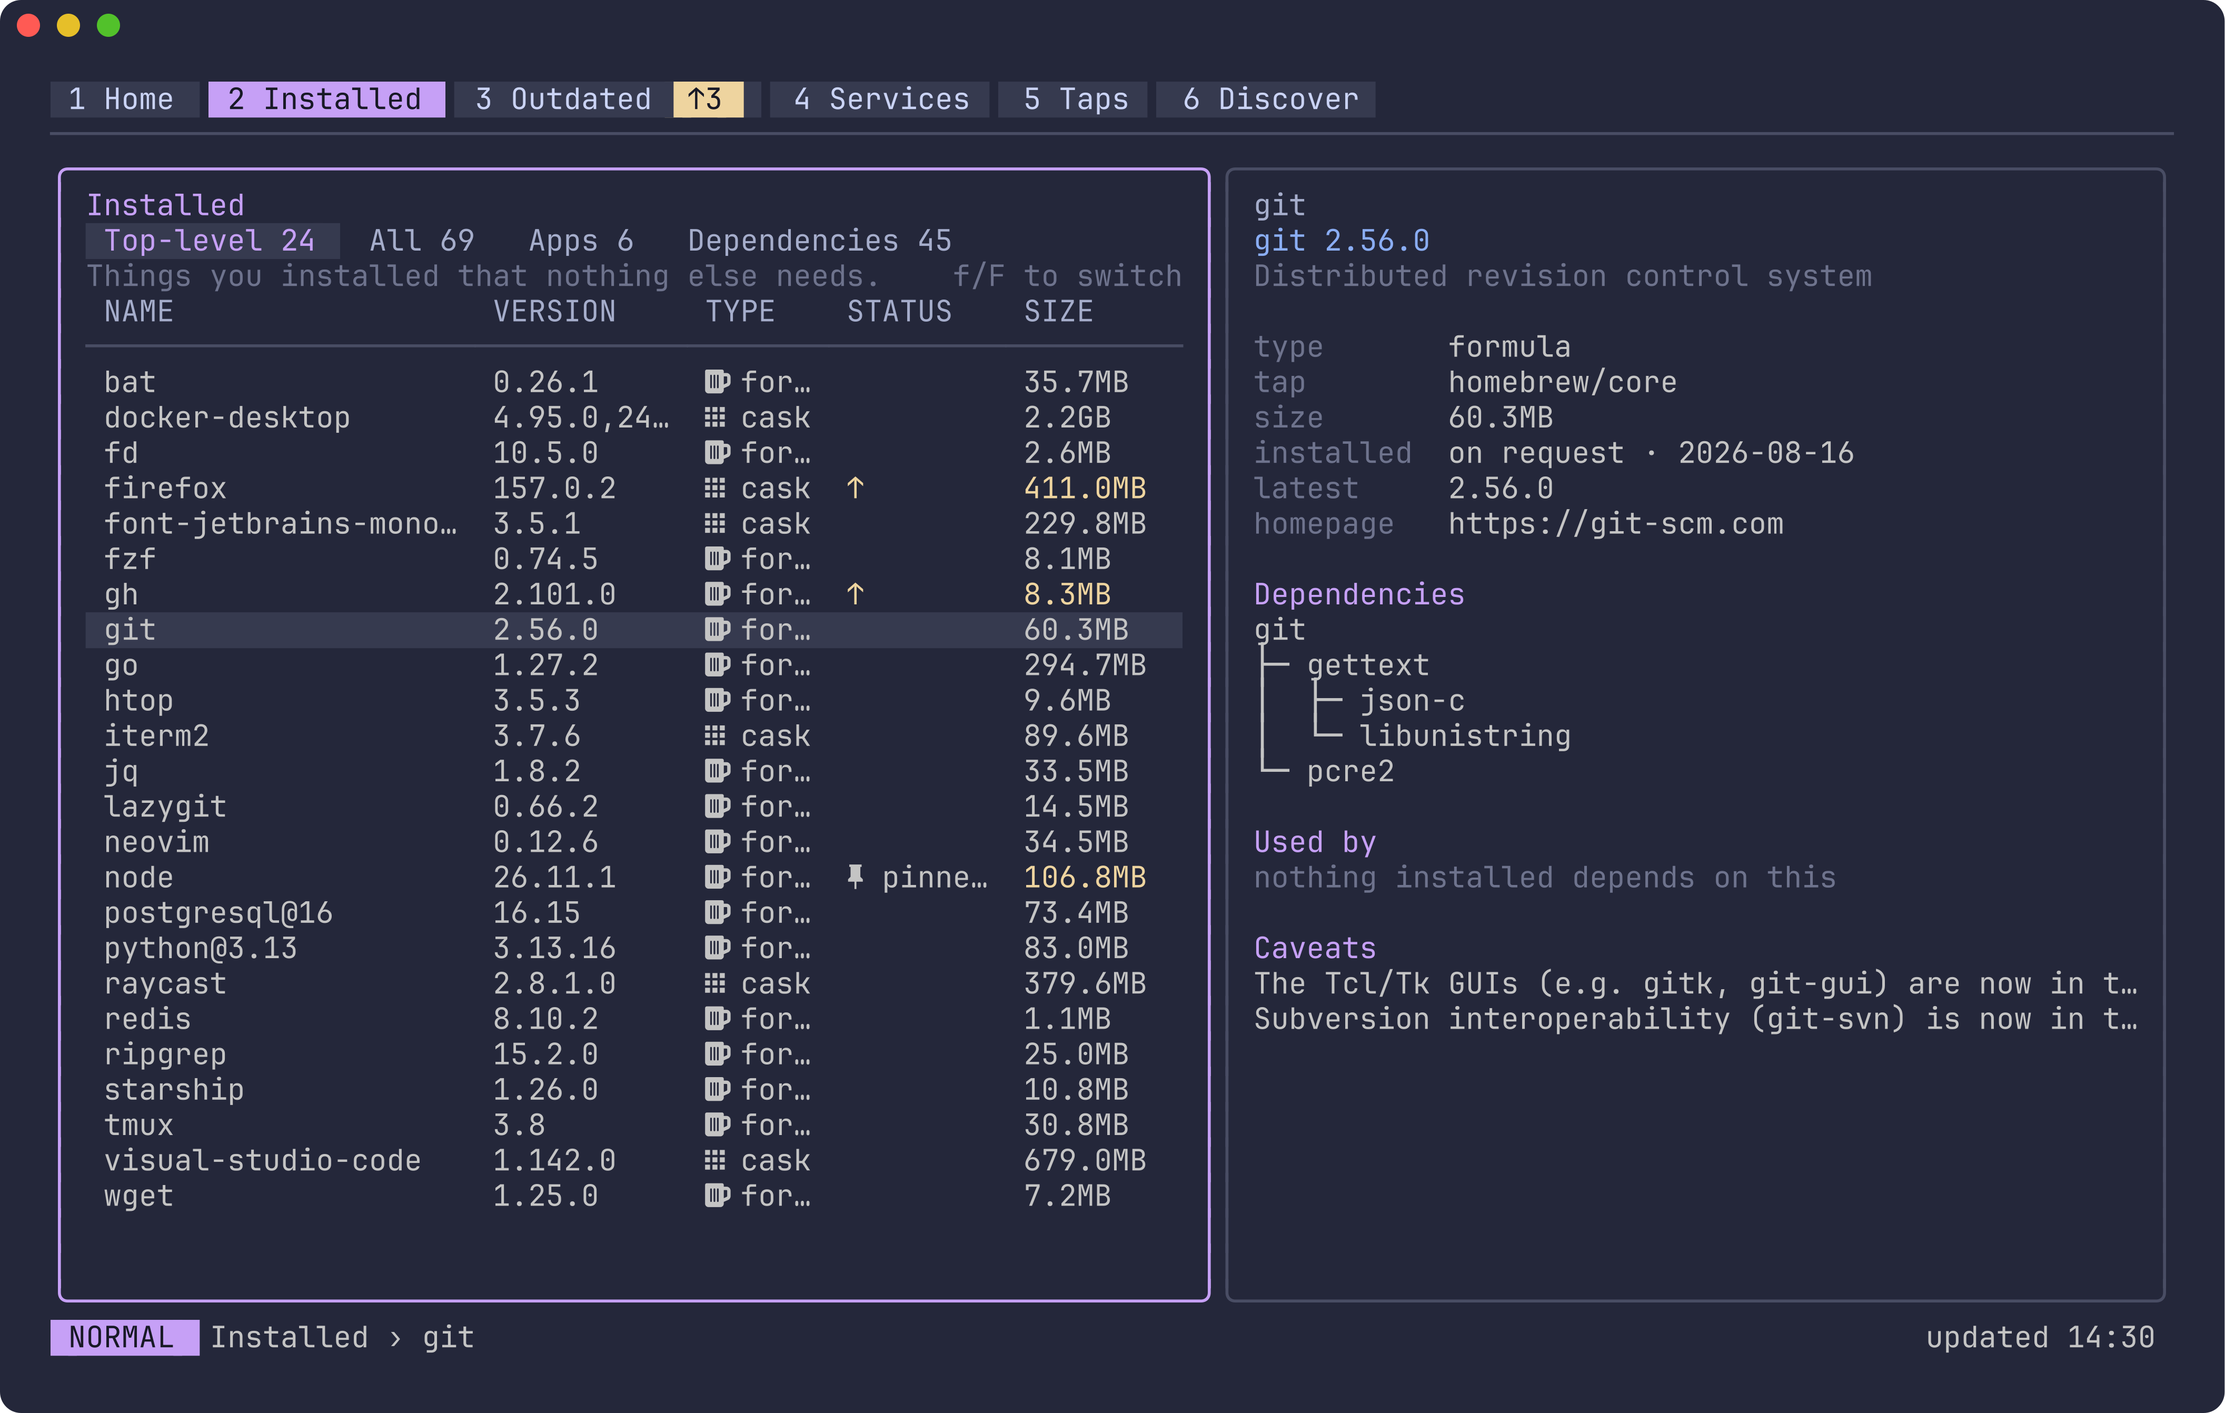
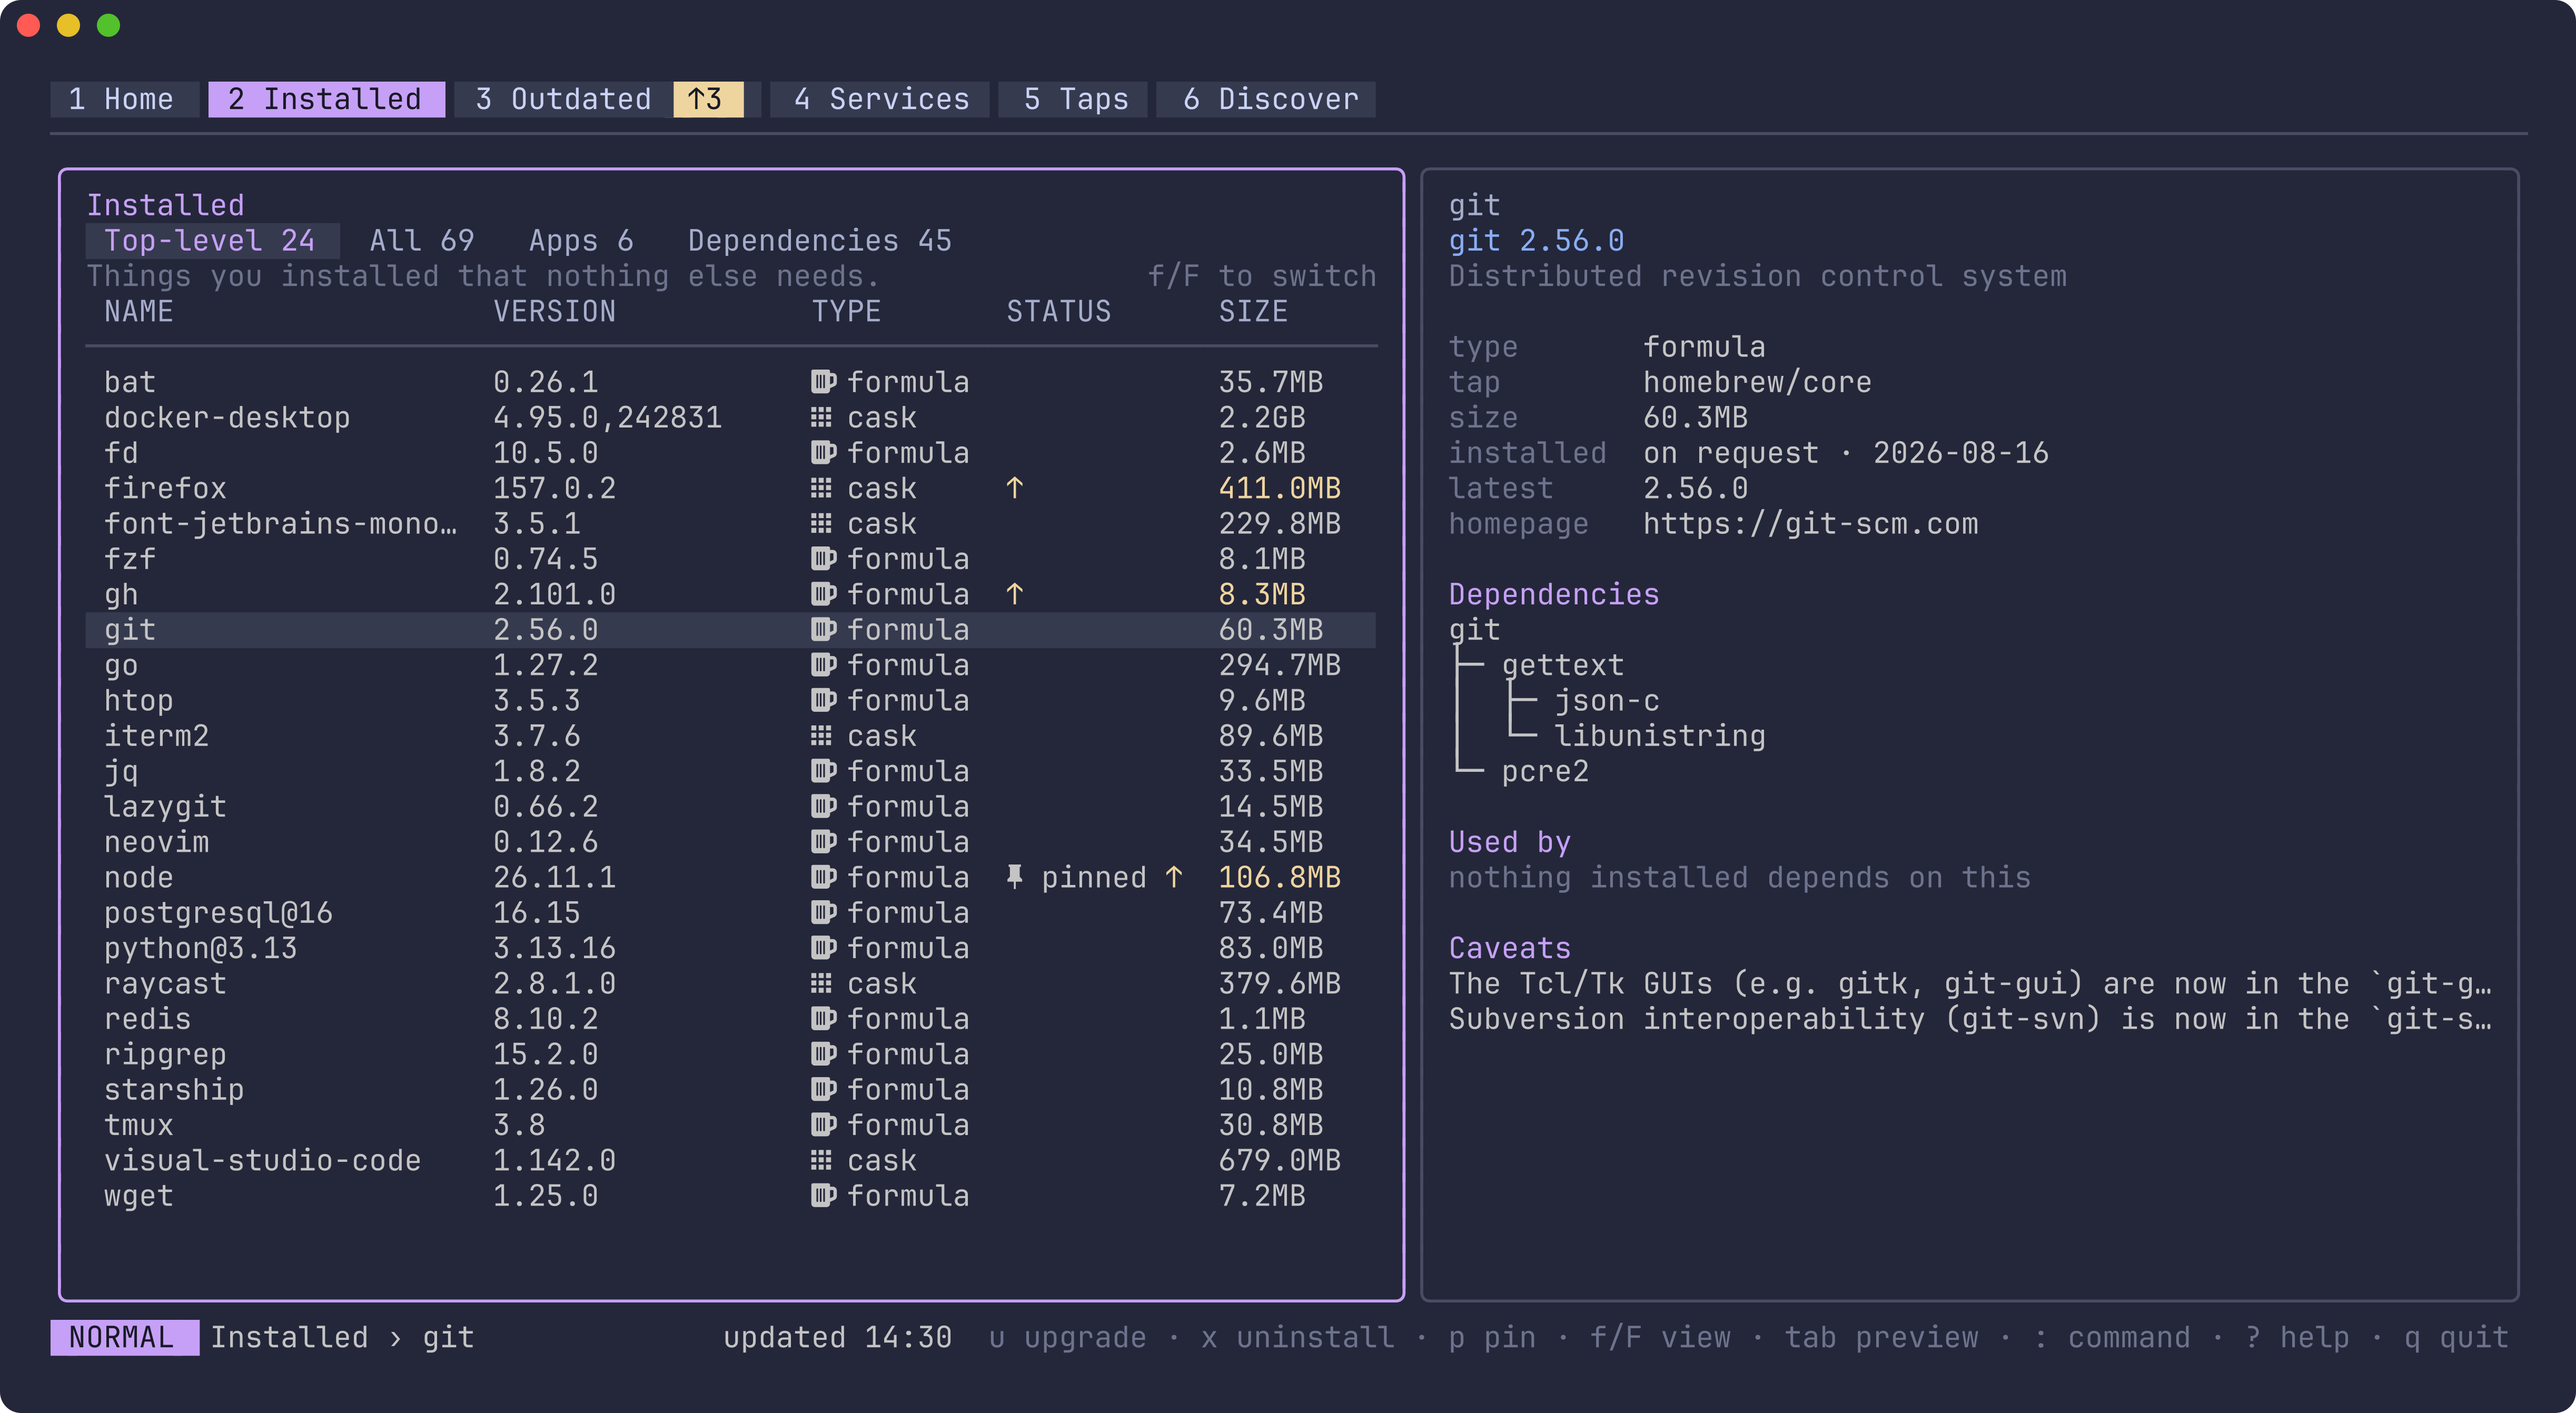
docs: screenshots at 140 columns; freeze pinned; the renderer fails if gh is missing

diff --git a/internal/ui/screenshots_test.go b/internal/ui/screenshots_test.go
@@ -135,7 +135,7 @@ const upgradeGh = "==> Upgrading 1 outdated package:\r\n" +
 	"  2.101.0 -> 2.102.0\r\n" +
 	"==> Pouring gh--2.102.0.arm64_tahoe.bottle.tar.gz\r\n"
 
-// demoApp is brewery on the demo machine at 120×36, icons on.
+// demoApp is brewery on the demo machine at 140×36, icons on.
 func demoApp(t *testing.T, fs *fakeStarter) *App {
 	t.Helper()
 	t.Setenv("HOME", "/Users/demo")
@@ -180,7 +180,7 @@ func demoApp(t *testing.T, fs *fakeStarter) *App {
 			Started: demoNow.Add(-3 * time.Hour), Ended: demoNow.Add(-3*time.Hour + 4*time.Second)},
 	}
 	a.UseHistory(jobs.History{Dir: t.TempDir()}, []jobs.Record{recs[1], recs[2], recs[0]}) // newest first
-	a.Update(tea.WindowSizeMsg{Width: 120, Height: 36})
+	a.Update(tea.WindowSizeMsg{Width: 140, Height: 36})
 	return a
 }
 
@@ -228,6 +228,9 @@ func TestScreenshots(t *testing.T) {
 			break
 		}
 		keys(t, a, "j")
+	}
+	if i := a.outdated.cursor(); i < 0 || a.snap.Outdated[i].Name != "gh" {
+		t.Fatal("gh not found on Outdated")
 	}
 	waiting := settle(t, a, a.handleKey(press("u")))
 	shoot(t, a, "upgrade")

diff --git a/docs/superpowers/specs/2026-10-16-brewery-screenshots-design.md b/docs/superpowers/specs/2026-10-16-brewery-screenshots-design.md
@@ -29,9 +29,9 @@ The demo data is in brew's own formats and goes through brewery's real parsers (
   - a demo `Source`, `Catalog` and `Analytics`, in the style of the existing test fakes;
   - a fixed clock (`a.now`);
   - `HOME=/Users/demo` and `time.Local = time.UTC`;
-  - window size 120×36, icons on (`UseIcons(true)`), and Lip Gloss colour forced to true colour so the capture carries real colours.
+  - window size 140×36, icons on (`UseIcons(true)`), and Lip Gloss colour forced to true colour so the capture carries real colours.
 - **Screens**, each written to `docs/screenshots/<name>.ansi` as `App.render()` output, with ANSI codes kept:
-  1. `home`: the Home tab, with doctor's warnings and two recent jobs from a demo history.
+  1. `home`: the Home tab, with doctor's warnings and three recent jobs from a demo history.
   2. `installed`: Installed, Top-level view, with git selected and its preview showing the dependency tree. The All view would open on libraries (abseil, ada-url, …), so Top-level shows the tools people actually install.
   3. `discover`: Discover, Popular tools, with pipx selected (#7, not installed). Its preview shows version, licence, "Would also install python@3.15" and installs.
   4. `upgrade`: `u` on an outdated package, unpinned, with the drawer open showing brew's upgrade output, written by a fake process from a recorded demo transcript.
@@ -46,12 +46,12 @@ The demo data is in brew's own formats and goes through brewery's real parsers (
   - modest padding, rounded corners, and the output scaled for a retina-sharp PNG.
 
   Run with stdin from `/dev/null`: freeze reads stdin whenever it isn't a terminal, even when given a file, and hangs.
-- **`make screenshots`** runs the tagged test, then `freeze` on each capture. It needs Charm's freeze, installed with `go install github.com/charmbracelet/freeze@latest`. **Not** `brew install freeze`, which is a different app (an Amazon Glacier client cask). It also needs the font (`brew install --cask font-jetbrains-mono-nerd-font`, which includes the NL cut). `FREEZE` and `FONT` can be overridden. The Makefile comment says so.
-- The `.ansi` captures are intermediate files, and `.gitignore` excludes them. Only the PNGs are committed. Each should be a few hundred KB at most.
+- **`make screenshots`** runs the tagged test, then `freeze` on each capture. It needs Charm's freeze, installed with `go install github.com/charmbracelet/freeze@v0.2.2` (pinned at v0.2.2). **Not** `brew install freeze`, which is a different app (an Amazon Glacier client cask). It also needs the font (`brew install --cask font-jetbrains-mono-nerd-font`, which includes the NL cut). `FREEZE` and `FONT` can be overridden. The Makefile comment says so.
+- The `.ansi` captures are intermediate files, and `.gitignore` excludes them. Only the PNGs are committed. Each is 4892×2684 pixels and 416 KB to 1.0 MB (about 2.8 MB in all).
 
 ## 4. README
 
-- Under the intro paragraph, the Home screenshot is the hero image: `![brewery's Home tab](docs/screenshots/home.png)`.
+- Under the intro paragraph, the Home screenshot is the hero image: `![brewery's Home tab: counts of what's installed, outdated and running, doctor's warnings and recent jobs](docs/screenshots/home.png)`.
 - A new section "A look around" comes after Install. It has the other three images, each with a one-line caption:
   - Installed: "Everything installed, with what it needs and what needs it."
   - Discover: "Find popular and rising packages, and install them."

diff --git a/docs/superpowers/plans/2026-10-16-brewery-screenshots.md b/docs/superpowers/plans/2026-10-16-brewery-screenshots.md
@@ -24,7 +24,7 @@
 - **Discover uses pipx** (#7 in the real 30-day list, not installed on the demo machine). Its preview shows "Would also install python@3.15" (its real `brew deps`). `uv` would have said "nothing else".
 
 **Verified:**
-- The prototype (branch `proto/screenshots`, commits 358697a and 252d97e) renders all four screens. `make screenshots` writes the PNGs at 4226×2684 (412–882 KB each, 2.6 MB total). Each was looked at: icons render, colours are brewery's, `==>` shows as typed, and no screen is loading or empty.
+- The prototype (branch `proto/screenshots`, commits 358697a and 252d97e) renders all four screens. `make screenshots` writes the PNGs at 4892×2684 (412–882 KB each, 2.6 MB total). Each was looked at: icons render, colours are brewery's, `==>` shows as typed, and no screen is loading or empty.
 - `go test ./...` doesn't build the tagged file.
 - `go vet` passes with and without the tag, and golangci-lint shows 0 issues with and without `--build-tags screenshots`.
 - No file contains the local username.
@@ -33,7 +33,7 @@
 
 - **Nothing personal in the repo:** no username (`locutus`), no `/Users/<real user>` path, no real package list. The demo machine's user is `demo`, its home `/Users/demo`.
 - **The renderer never runs in `go test ./...` or CI:** the first line is `//go:build screenshots`.
-- **Screens and file names:** `docs/screenshots/{home,installed,discover,upgrade}.png`, rendered at 120×36 with icons on. Captures are `docs/screenshots/*.ansi`, which are git-ignored.
+- **Screens and file names:** `docs/screenshots/{home,installed,discover,upgrade}.png`, rendered at 140×36 with icons on. Captures are `docs/screenshots/*.ansi`, which are git-ignored.
 - **freeze flags (exact):**
   - `--language ansi --window --background '#24273a'`
   - `--padding 20,24 --margin 0 --border.radius 10`
@@ -264,7 +264,7 @@ const upgradeGh = "==> Upgrading 1 outdated package:\r\n" +
 	"  2.101.0 -> 2.102.0\r\n" +
 	"==> Pouring gh--2.102.0.arm64_tahoe.bottle.tar.gz\r\n"
 
-// demoApp is brewery on the demo machine at 120×36, icons on.
+// demoApp is brewery on the demo machine at 140×36, icons on.
 func demoApp(t *testing.T, fs *fakeStarter) *App {
 	t.Helper()
 	t.Setenv("HOME", "/Users/demo")
@@ -422,7 +422,7 @@ Append the line:
 Run: `make screenshots FREEZE=/private/tmp/claude-501/-Users-locutus-Dev-tools-brewery/12a9a9c1-001a-4784-bd8a-fd8ddfef5515/scratchpad/bin/freeze && file docs/screenshots/*.png && git status --short`
 Expected:
 - four `WROTE docs/screenshots/<name>.png` lines;
-- `file` reports `PNG image data, 4226 x 2684` for each;
+- `file` reports `PNG image data, 4892 x 2684` for each;
 - `git status` shows the new PNGs as untracked, and no `.ansi` files.
 
 - [ ] **Step 6: Checks, and commit (not the PNGs: Task 3 commits them)**

diff --git a/README.md b/README.md
@@ -93,7 +93,7 @@ make test
 `make screenshots` regenerates the images above from a made-up machine
 (`internal/ui/testdata/demo`). It needs Charm's
 [freeze](https://github.com/charmbracelet/freeze)
-(`go install github.com/charmbracelet/freeze@latest`) and the JetBrains Mono
+(`go install github.com/charmbracelet/freeze@v0.2.2`) and the JetBrains Mono
 Nerd Font (`brew install --cask font-jetbrains-mono-nerd-font`).
 
 ## Licence
